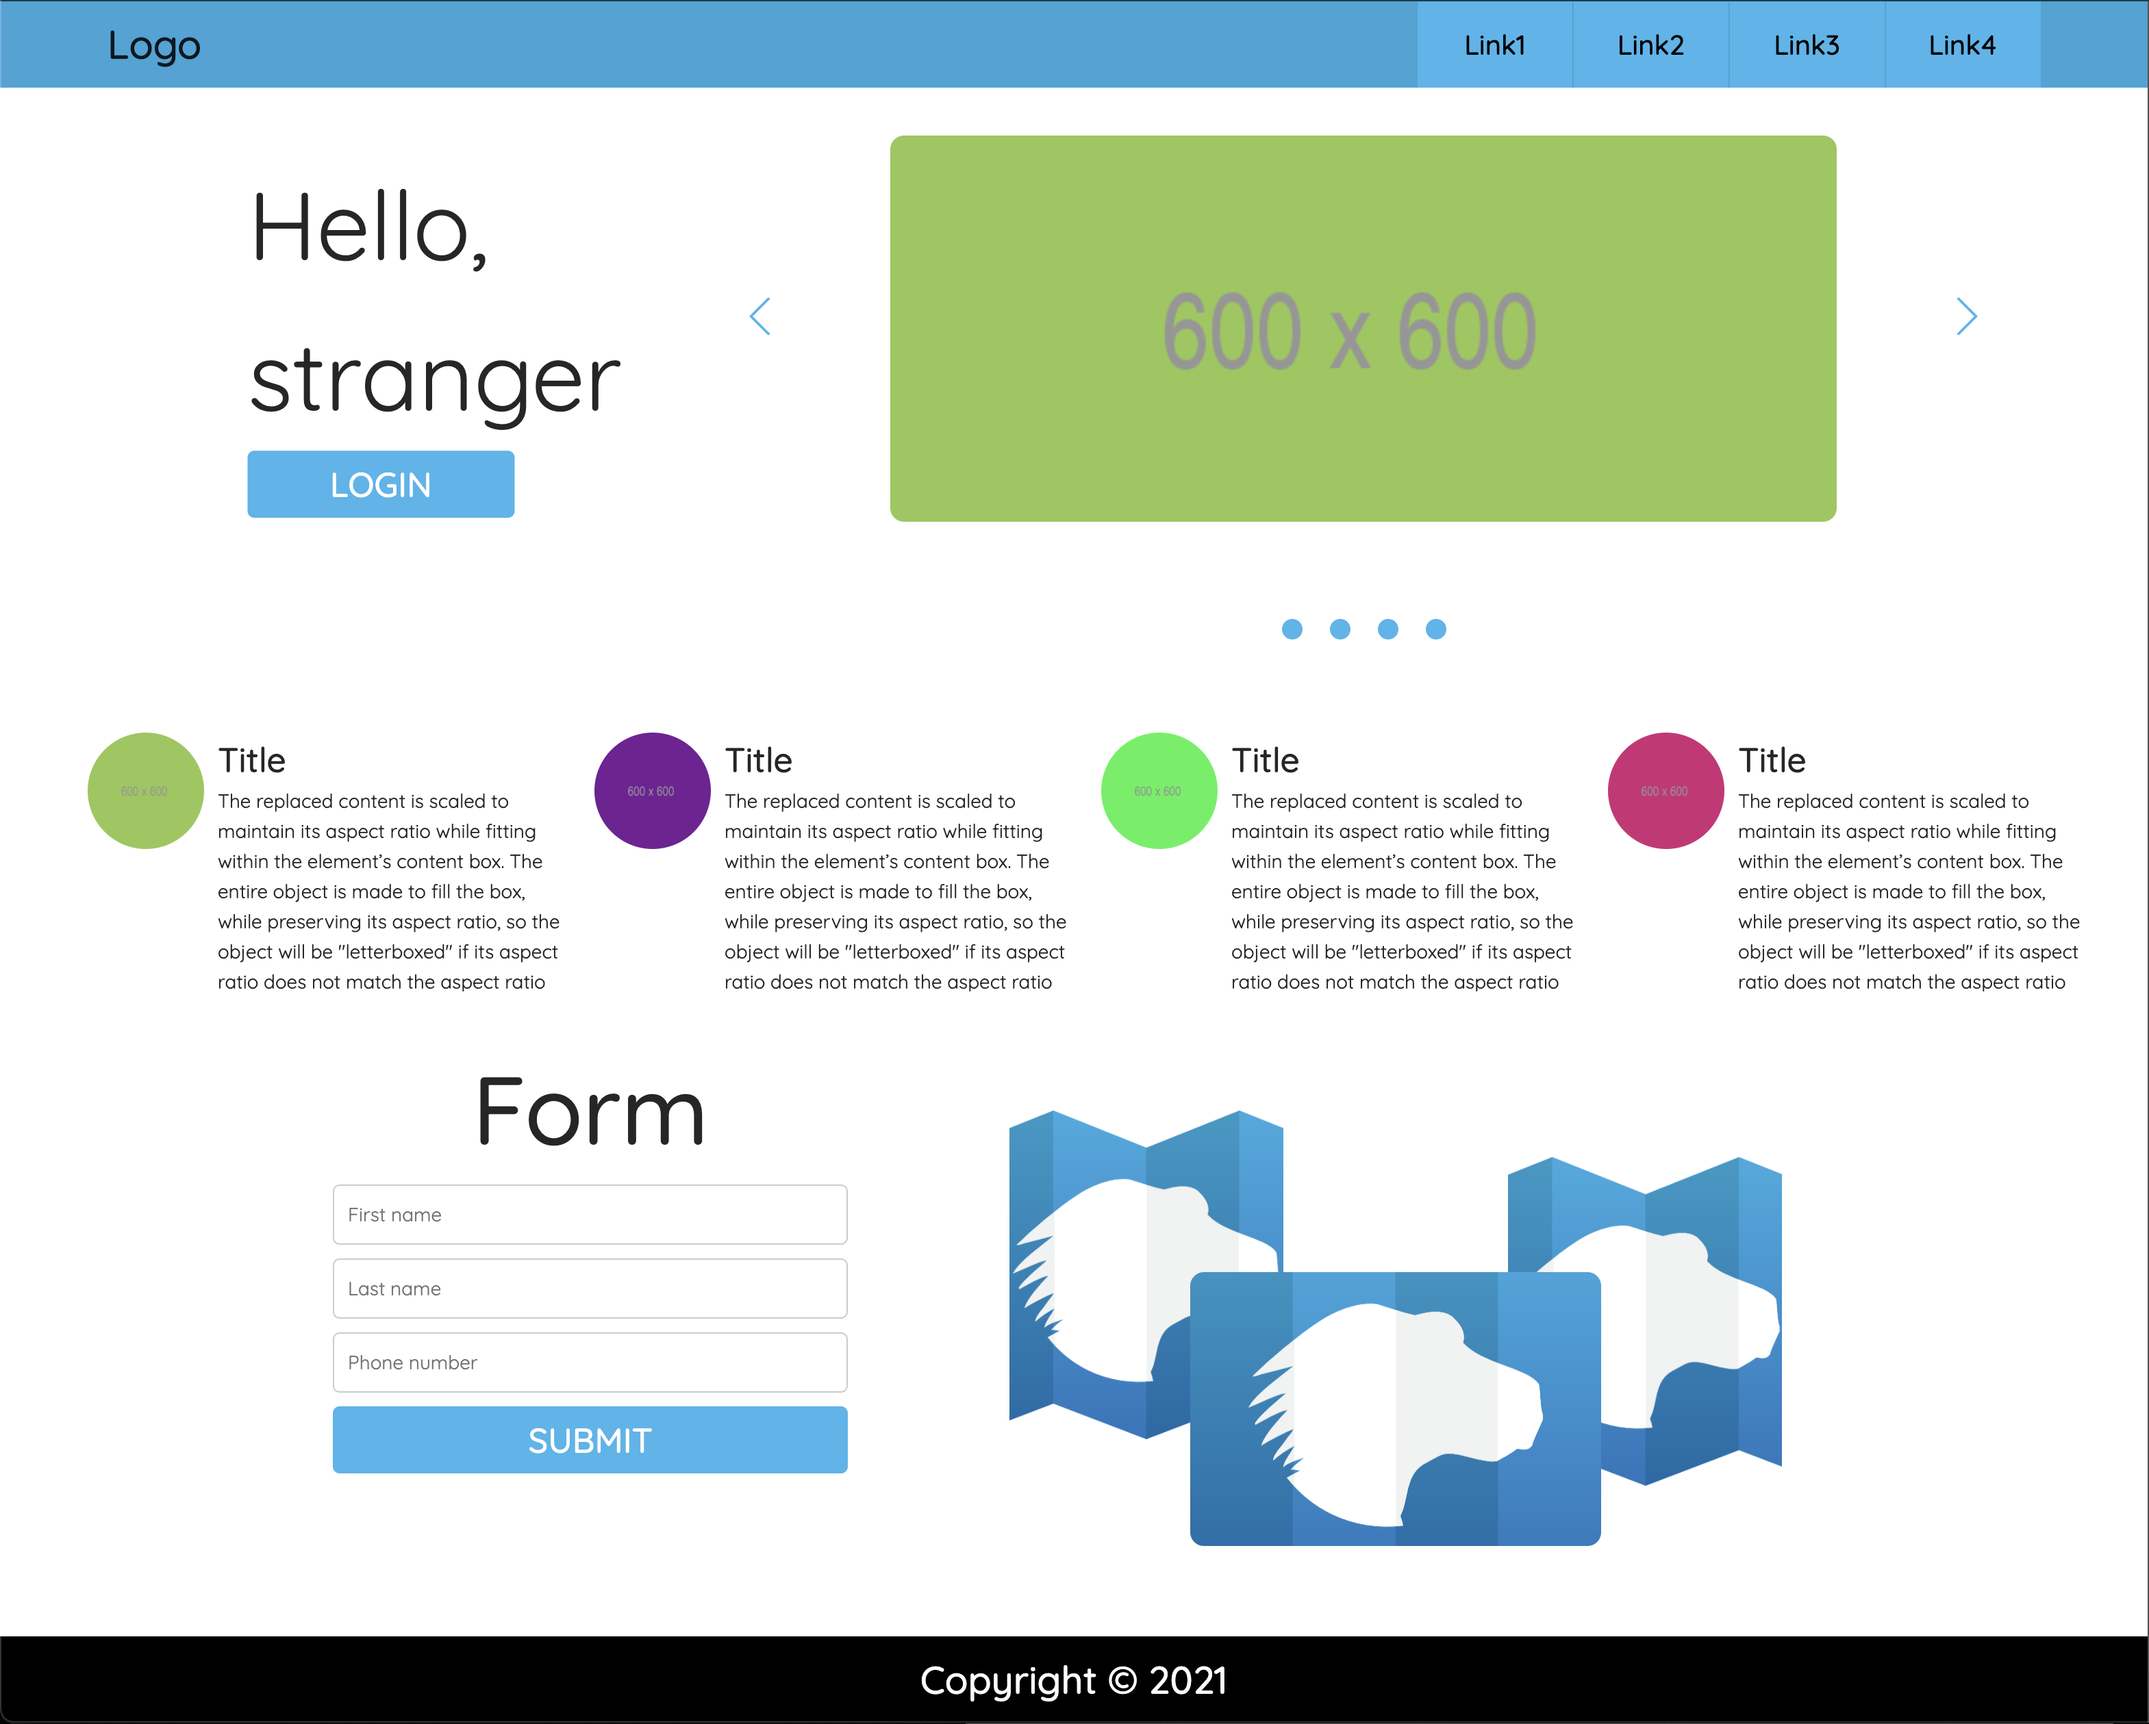
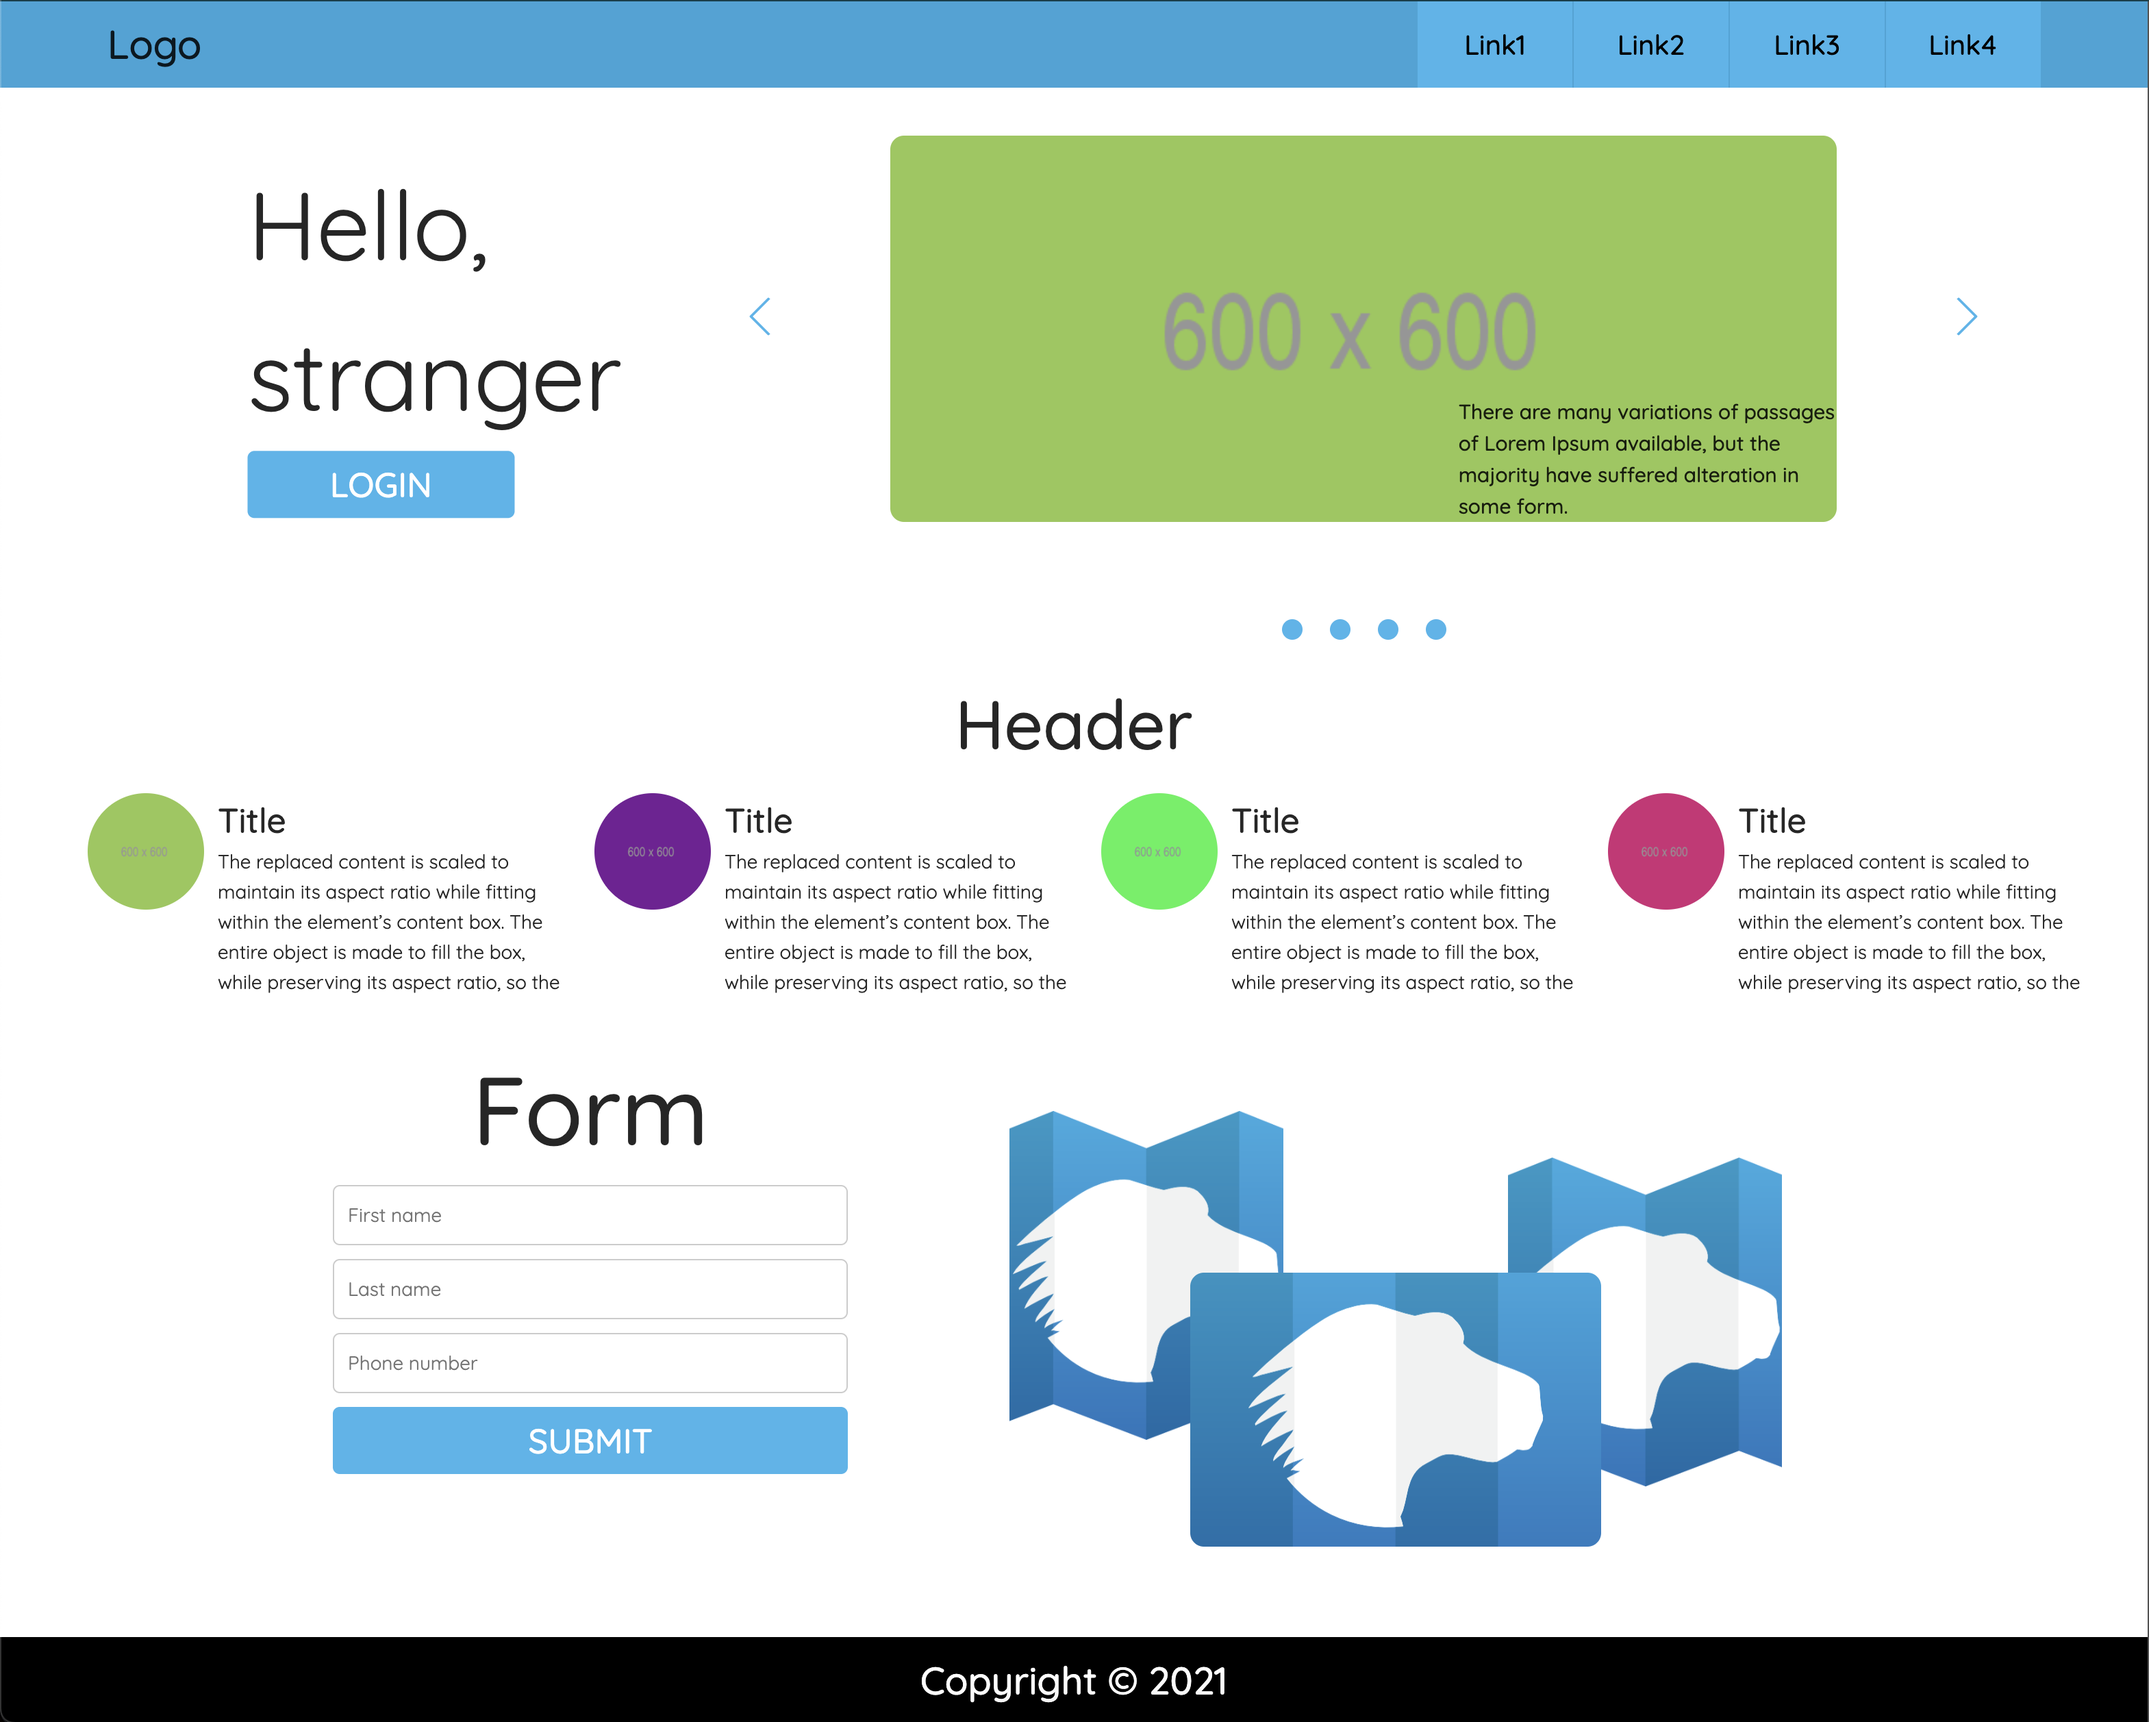
adaptiv

diff --git a/src/components/Header1/Login/Login.tsx b/src/components/Header1/Login/Login.tsx
@@ -1,5 +1,5 @@
 import "./Login.scss";
-import React,{ useState, ChangeEvent } from "react";
+import React, { useState, ChangeEvent } from "react";
 import { useDispatch, useSelector } from "react-redux";
 
 import { Modal } from "antd";
@@ -28,7 +28,7 @@ export function Login() {
 
   const handleSubmit = (e: ChangeEvent): void => {
     e.preventDefault();
-    if (login === "admin" && pass === "123") {
+    if (login.toLowerCase() === "admin" && pass === "123") {
       dispatch(setAuth(true));
       showModal();
     }
@@ -55,7 +55,7 @@ export function Login() {
             onCancel={handleCancel}
           >
             <form name="loginForm">
-              {login !== "admin" && login?.length > 0 && (
+              {login.toLowerCase() !== "admin" && login?.length > 0 && (
                 <p className="error">Wrong login!</p>
               )}
               <Input

diff --git a/src/components/Header3/FormSubmit.tsx b/src/components/Header3/FormSubmit.tsx
@@ -99,16 +99,12 @@ export const FormSubmit: FC<PropsType> = () => {
         <div className="back">
           <div className="left">
             <img
-              width="200"
-              height="240"
               alt="/"
               src="https://mdn.mozillademos.org/files/6457/mdn_logo_only_color.png"
             />
           </div>
           <div className="right">
             <img
-              width="200"
-              height="240"
               alt="/"
               src="https://mdn.mozillademos.org/files/6457/mdn_logo_only_color.png"
             />
@@ -116,8 +112,6 @@ export const FormSubmit: FC<PropsType> = () => {
         </div>
         <div className="front">
           <img
-            height="200"
-            width="300"
             alt="/"
             src="https://mdn.mozillademos.org/files/6457/mdn_logo_only_color.png"
           />

diff --git a/src/components/Header3/Header3.scss b/src/components/Header3/Header3.scss
@@ -49,6 +49,10 @@
     height: 70%;
     width: 80%;
     position: relative;
+    img {
+      width: 200px;
+      height: 240px;
+    }
     .left {
       height: 100%;
       width: 50%;
@@ -73,6 +77,36 @@
     img {
       position: absolute;
       bottom: 50%;
+      width: 300px;
+      height: 200px;
+    }
+  }
+}
+
+@media (max-width: 1100px) {
+  .formContainer {
+    width: 100%;
+    height: 50%;
+    .title {
+      font-size: 35px;
+    }
+  }
+  .imagesContainer {
+    width: 100%;
+    height: 50%;
+    .back {
+      width: 100%;
+      img {
+        width: 130px;
+        height: 180px;
+      }
+    }
+    .front {
+      width: 100%;
+      img {
+        width: 195px;
+        height: 130px;
+      }
     }
   }
 }

diff --git a/src/components/Header1/Slider/Slider.scss b/src/components/Header1/Slider/Slider.scss
@@ -63,8 +63,14 @@
       background-size: cover;
       background-repeat: no-repeat;
       background-position: center;
-      p {
-        width: 40%;
+      .descriptionText {
+        display: flex;
+        justify-content: flex-end;
+        width: 50%;
+        height: 25%;
+        overflow: auto;
+        p {
+        }
       }
     }
     .rightArrow {
@@ -96,6 +102,21 @@
     }
     .sliderDot:active {
       background-color: rgb(22, 64, 82);
+    }
+  }
+}
+
+@media (max-width: 1100px) {
+  .sliderContainer {
+    height: 50%;
+    width: 100%;
+    .topContent {
+      .imgContainer {
+        .descriptionText {
+          width: 100%;
+          height: 40%;
+        }
+      }
     }
   }
 }

diff --git a/src/components/Header1/Slider/Slider.tsx b/src/components/Header1/Slider/Slider.tsx
@@ -51,10 +51,12 @@ export const Slider: FC<PropsType> = () => {
               backgroundImage: showingPost && `url(${showingPost.url})`,
             }}
           >
-            <p>
-              There are many variations of passages of Lorem Ipsum available,
-              but the majority have suffered alteration in some form.
-            </p>
+            <div className="descriptionText">
+              <p>
+                There are many variations of passages of Lorem Ipsum available,
+                but the majority have suffered alteration in some form.
+              </p>
+            </div>
           </div>
           <div className="rightArrow">
             <ul>

diff --git a/src/components/Header1/Login/Login.scss b/src/components/Header1/Login/Login.scss
@@ -1,13 +1,7 @@
 .loginContainer {
   width: 30%;
   position: relative;
-  // display: flex;
-  // justify-content: flex-end;
-  // align-items: flex-start;
   .loginContent {
-    // display: flex;
-    // flex-direction: column;
-    // align-items: center;
     position: absolute;
     top: 50%;
     left: 50%;
@@ -43,5 +37,19 @@ form {
   .error {
     color: red;
     font-weight: bold;
+  }
+}
+
+@media (max-width: 1100px) {
+  .loginContainer {
+    width: 100%;
+    height: 50%;
+    .loginContent {
+      text-align: center;
+      transform: translate(-50%, -50%);
+      .title {
+        font-size: 35px;
+      }
+    }
   }
 }

diff --git a/src/components/App/App.scss b/src/components/App/App.scss
@@ -27,6 +27,27 @@ p {
   width: 90%;
   margin: 0 auto;
 }
+@media (max-width: 1100px) {
+  .mainContainer {
+    height: 200vh;
+    .headerOneContainer {
+      display: flex;
+      flex-direction: column;
+      height: 20%;
+      width: 90%;
+    }
+    .headerTwoContainer {
+      height: 35%;
+    }
+    .headerThreeContainer {
+      flex-direction: column;
+      align-items: center;
+    }
+    .footer {
+      height: 5%;
+    }
+  }
+}
 .headerTwoContainer {
   width: 100vw;
   height: 20%;

diff --git a/src/components/Header2/Card.scss b/src/components/Header2/Card.scss
@@ -35,3 +35,15 @@
     }
   }
 }
+@media (max-width: 1100px) {
+  .headerContainer {
+    height: 10%;
+  }
+  .cardsContainer {
+    flex-direction: column;
+    .cardContainer {
+      height: 24%;
+      margin-top: 1%;
+    }
+  }
+}
